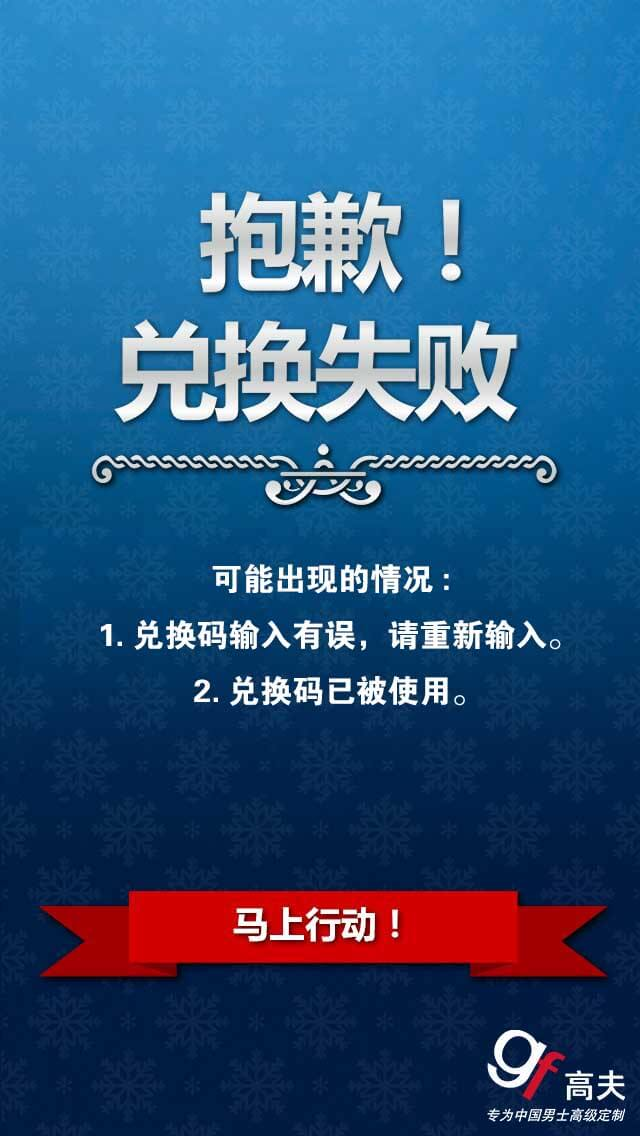
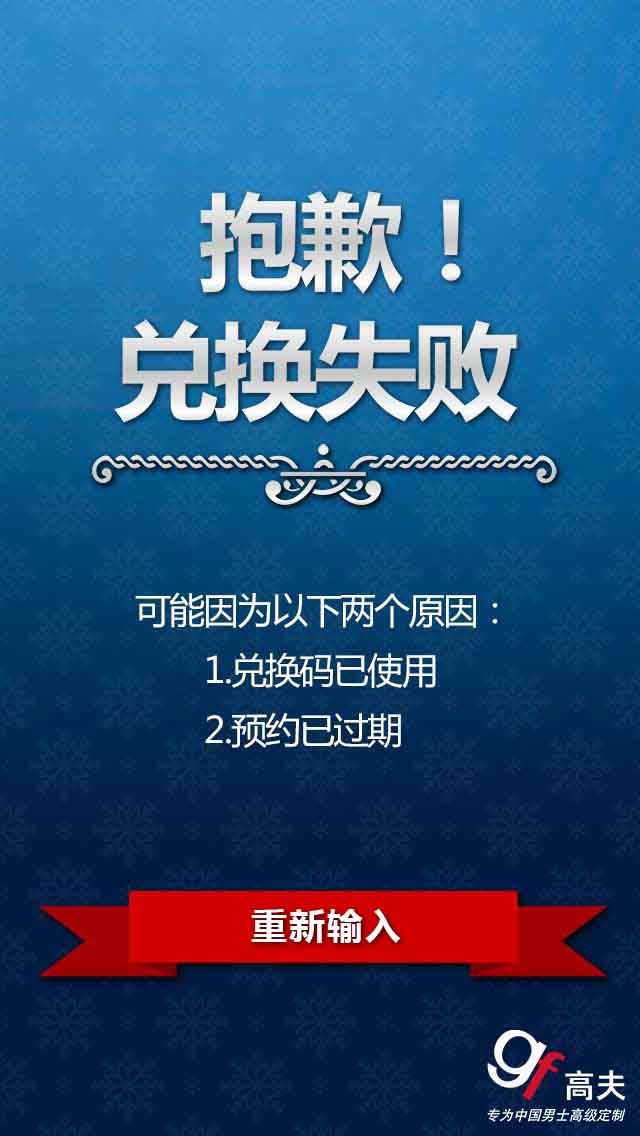
re-type page update

Changed region(s): [[0.1562, 0.493, 0.875, 0.6778], [0.3438, 0.7702, 0.625, 0.8319]]

diff --git a/public/exchange-app.js b/public/exchange-app.js
@@ -142,14 +142,9 @@
 					shopCode: $("#shopNoInput").val()
 				}).done(function(resp) {
 					NProgress.done();
-					if (resp.status === 'error') {
-						alert(resp.message);
-						return;
-					} else {
-						$("#exchangeInput").hide();
-						$("#shopNoInput").hide();
-						game.displayPage17(resp.status);
-					}
+					$("#exchangeInput").hide();
+					$("#shopNoInput").hide();
+					game.displayPage17(resp.status);
 				}) ;
 			});
 
@@ -221,9 +216,11 @@
 	};
 
 
+	var lastStatus = null;
 	game.displayPage17 = function(status) {
+		lastStatus = status;
 		if(this.resultPage == null) {
-			this.resultPage = buildBackground("resultPage", status === 'fail' ? "page17_2" : "page17");
+			this.resultPage = buildBackground("resultPage", (status === 'fail' || status === 'error') ? "page17_2" : "page17");
 
 			var goBtn = new Q.Button({id:"goBtn", image: ns.R.getImage("button")});
 			goBtn.setUpState({rect:[0,0,450,79]});
@@ -234,7 +231,11 @@
 			goBtn.x = this.width * 0.145;
 			goBtn.y = this.height * 0.745;
 			goBtn.on(game.EVENTS.TAP, function(e) {
-				game.displayPage18();
+				if (lastStatus === 'fail' || lastStatus === 'error') {
+					game.displayPage16();
+				} else {
+					game.displayPage18();
+				}
 			});
 
 			this.goBtn = goBtn;
